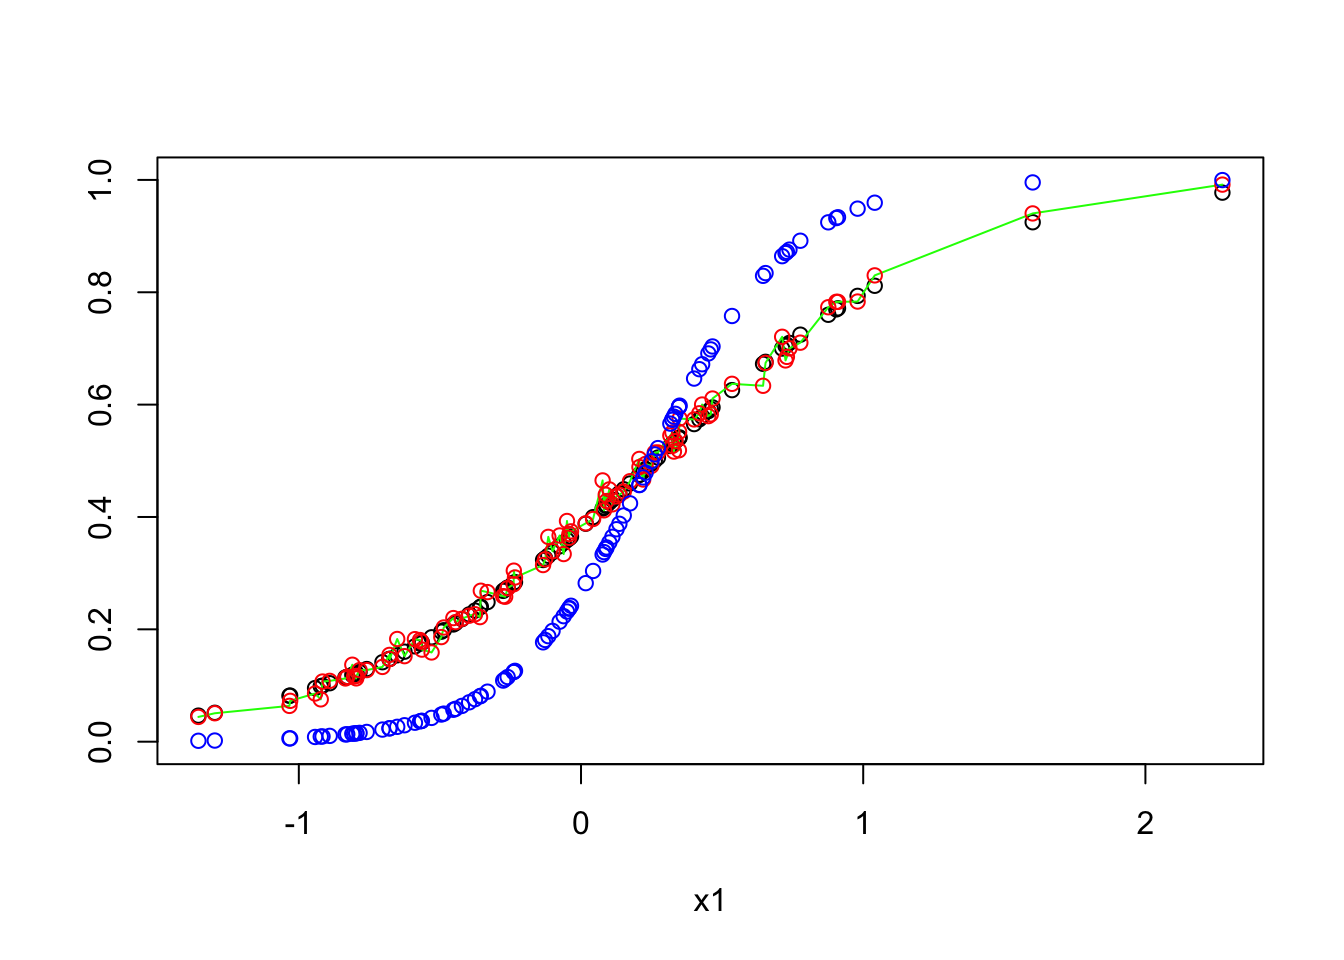
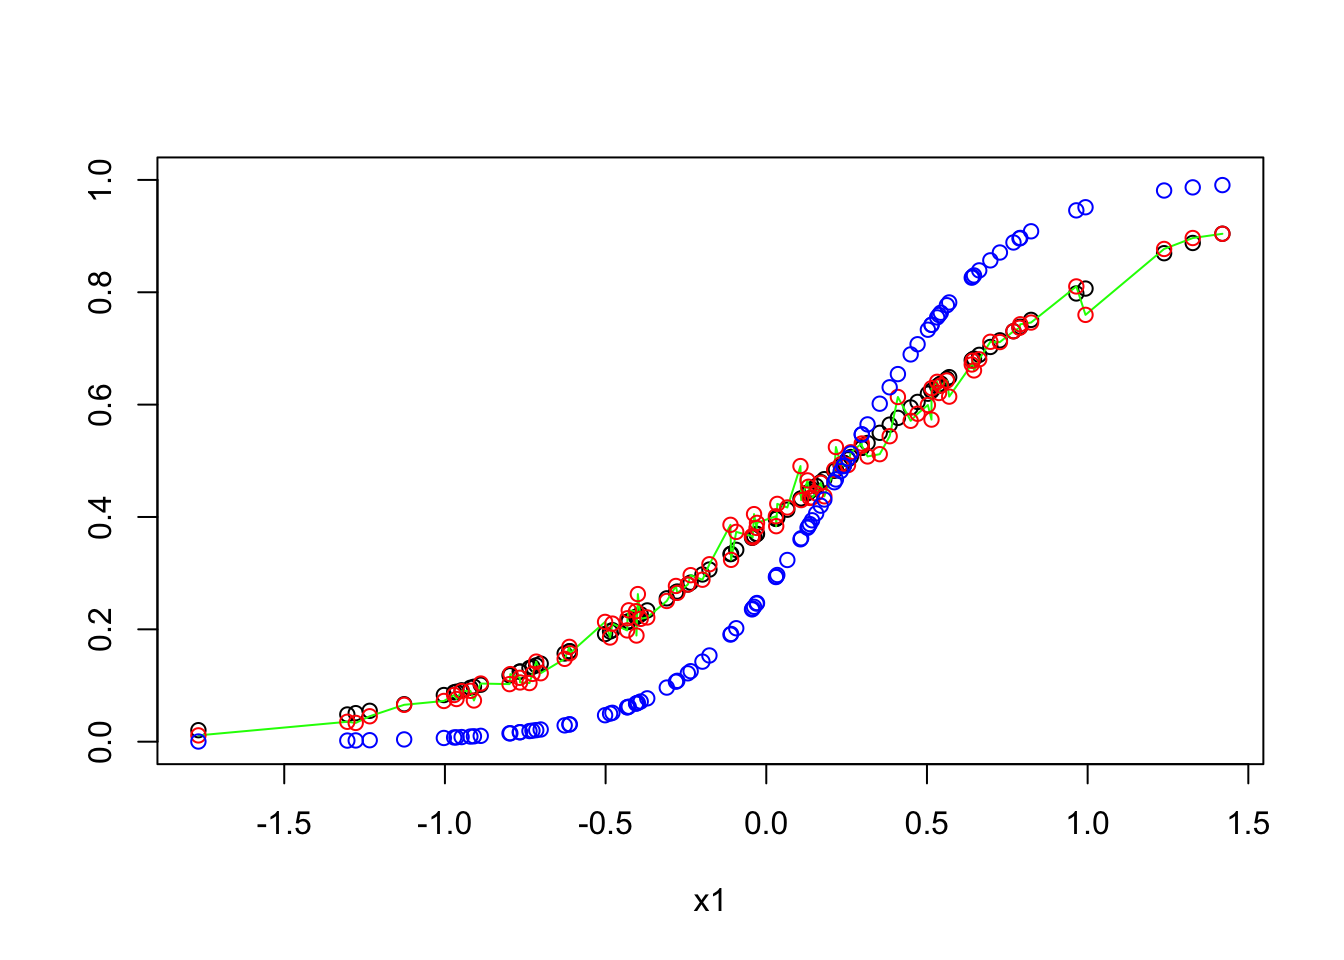
fix Jensen and start calculus

diff --git a/LinearAlgebra.html b/LinearAlgebra.html
@@ -701,7 +701,7 @@ y \\
 </ins>
 </div>
 <p>Compared with <span class="math inline">\(S = Q\Lambda Q^T\)</span>.<br />
-Now <span class="math inline">\(A = U\Sigma V^T\)</span>. <span class="math inline">\(Ax = U\Sigma V^Tx\)</span> can be viewed as as rotation, stretch, rotation of vector <span class="math inline">\(x\)</span>.</p>
+Now <span class="math inline">\(A = U\Sigma V^T\)</span>. <span class="math inline">\(Ax = U\Sigma V^Tx\)</span> can be viewed as <strong>rotation, stretch, and then rotation</strong> of vector <span class="math inline">\(x\)</span>.</p>
 <p>Now the matrix <span class="math inline">\(A\)</span> is rectengular</p>
 <p><span class="math inline">\(A^TA\)</span> is n by n semidefinite positive <span class="math inline">\(\rightarrow A^TA = V\Lambda V^T\)</span> <span class="math inline">\(AA^T\)</span> is m by m semidefinite positive <span class="math inline">\(\rightarrow AA^T = U\Lambda U^T\)</span></p>
 <ul>
@@ -721,7 +721,7 @@ A^TA &amp;= V(\Sigma^T\Sigma)V^T
 <li><span class="math inline">\(U\)</span> is the eigenvectors of <span class="math inline">\(AA^T\)</span> and</li>
 <li><span class="math inline">\(V\)</span> is the eigenvectors of <span class="math inline">\(A^TA\)</span></li>
 </ul>
-<p>We know that <span class="math inline">\(v\)</span>s are orthogonal eigenvectors of <span class="math inline">\(A^TA\)</span>. Want to show <span class="math inline">\(u_1^Tu_2 =0\)</span></p>
+<p>We know that vestors <span class="math inline">\(V\)</span> are orthogonal eigenvectors of <span class="math inline">\(A^TA\)</span>. We want to show <span class="math inline">\(u_1^Tu_2 =0\)</span></p>
 <p><span class="math display">\[
 \begin{aligned}
 u_1^Tu_2 &amp;= (\frac{Av_1}{\sigma_1})^T(\frac{Av_2}{\sigma_2}) \\
@@ -738,20 +738,53 @@ u_1^Tu_2 &amp;= (\frac{Av_1}{\sigma_1})^T(\frac{Av_2}{\sigma_2}) \\
 </div>
 <p><span class="math display">\[A = U\Sigma V^T = \sigma_1u_1v_1^T + \sigma_2u_2v_2^T + ... \sigma_ru_rv_r^T\]</span> <span class="math display">\[A_k = U_k\Sigma_k V_k^T = \sigma_1u_1v_1^T + \sigma_2u_2v_2^T + ... \sigma_ku_kv_k^T\]</span></p>
 <p><strong>Eckart-Young Statement</strong>: If B has rank k then <span class="math inline">\(||A-B|| \geq||A-A_k||\)</span></p>
-<p>About norms for vectors:</p>
+<p>About <strong>norms</strong> for vectors:</p>
 <ul>
 <li><span class="math inline">\(L^2\)</span> norm: <span class="math inline">\(||v||_2 = \sqrt{|v_1|^2+ ...+|v_n|^2}\)</span></li>
 <li><span class="math inline">\(L^1\)</span> norm: <span class="math inline">\(||v||_1 = |v_1| +...+ |v_n|\)</span></li>
-<li><span class="math inline">\(L^{\infty}\)</span> norm: <span class="math inline">\(||v||_{\infty} = \text{max|v_i|}\)</span></li>
+<li><span class="math inline">\(L^{\infty}\)</span> norm: <span class="math inline">\(||v||_{\infty} = \text{max}|v_i|\)</span></li>
 <li><span class="math inline">\(||cv|| = |c| \ ||v||\)</span></li>
 <li><span class="math inline">\(||v+w|| \leq ||v||+||w||\)</span></li>
 </ul>
-<p>Below norms for matrix <span class="math inline">\(A\)</span> satisfy Eckart-Young statement:</p>
+<p>Below <strong>norms</strong> for matrix <span class="math inline">\(A\)</span> satisfy Eckart-Young statement:</p>
 <ul>
 <li><span class="math inline">\(||A||_2 = \sigma_1\)</span></li>
 <li>Frobenious norm: <span class="math inline">\(||A||_F = \sqrt{|a_{11}|^2+ ...|a_{1n}|^2+|a_{b1}|^2+...+|a_{mn}|^2}\)</span></li>
 <li>Nuclear norm: <span class="math inline">\(||A||_N = \sigma_1+\sigma_2+...+\sigma_r\)</span></li>
 </ul>
+<div style="background-color:white;color:blue;matrixOperation:20px;">
+<ins>
+<h3 id="norms-of-vectors-and-matrices">Norms of Vectors and Matrices</h3>
+</ins>
+</div>
+<div style="background-color:white;color:blue;matrixOperation:20px;">
+<ins>
+<h3 id="ways-to-solve-least-squares">4 Ways to Solve Least Squares</h3>
+</ins>
+</div>
+<p><span class="math inline">\(Ax=b\)</span></p>
+<p>where <span class="math inline">\(A\)</span> is <span class="math inline">\(m\)</span> by <span class="math inline">\(n\)</span> and rank <span class="math inline">\(r\)</span></p>
+<ol style="list-style-type: decimal">
+<li>Solve <span class="math inline">\(A^TAx = A^Tb\)</span> to minimize <span class="math inline">\(||Ax-b||^2\)</span> if <span class="math inline">\(A\)</span> has independent columns then <span class="math inline">\(A^TA\)</span> is invertible</li>
+<li><p>Gram-Schmidt <span class="math inline">\(A = QR\)</span> leads to <span class="math inline">\(x = R^{-1}Q^Tb\)</span></p></li>
+<li><p>The pseudoinverse directly multiplies <span class="math inline">\(b\)</span> to give <span class="math inline">\(x = A^{+}b\)</span></p></li>
+</ol>
+<p><span class="math inline">\(A = U\Sigma V^T\)</span>, if A is invertible, then <span class="math inline">\(A^{-1} = V\Sigma^{-1}U^T\)</span>. If A is not invertible: <span class="math inline">\(A^{+} = V\Sigma^{+}U^T\)</span></p>
+<ol start="4" style="list-style-type: decimal">
+<li>THe best <span class="math inline">\(x\)</span> is the limit of <span class="math inline">\((A^TA + \delta I)^{-1}A^Tb\)</span> as <span class="math inline">\(\delta \to 0\)</span></li>
+</ol>
+<p><strong>Claim: <span class="math inline">\(A^{+}b = (A^TA)^{-1}A^Tb\)</span> </strong> when <span class="math inline">\(N(A) = 0\)</span>, <span class="math inline">\(r=n\)</span></p>
+<p><span class="math inline">\(A^{+} = V\Sigma^{+}U^T = (A^TA)^{-1}A^T\)</span></p>
+<p>Notice that</p>
+<ul>
+<li><span class="math inline">\((A^TA)^{-1}A^TA=I\)</span></li>
+<li>while <span class="math inline">\(A(A^TA)^{-1}A^T \neq I\)</span> Note that for <span class="math inline">\((A^TA)^{-1}A^T\)</span> to be the inverse of <span class="math inline">\(A\)</span>, we need <span class="math inline">\((A^TA)^{-1}A^TA=I\)</span> and <span class="math inline">\(A(A^TA)^{-1}A^T = I\)</span></li>
+</ul>
+<div style="background-color:white;color:blue;matrixOperation:20px;">
+<ins>
+<h3 id="difficulties-with-ax-b">Difficulties with Ax = b</h3>
+</ins>
+</div>
 
 
 

diff --git a/BasicCalculus.html b/BasicCalculus.html
@@ -11,7 +11,7 @@
 
 
 
-<title>CECL for Line of Credit</title>
+<title>Basic Calculus</title>
 
 <script src="site_libs/jquery-1.11.3/jquery.min.js"></script>
 <meta name="viewport" content="width=device-width, initial-scale=1" />
@@ -383,42 +383,20 @@ div.tocify {
 
 
 
-<h1 class="title toc-ignore">CECL for Line of Credit</h1>
+<h1 class="title toc-ignore">Basic Calculus</h1>
 
 </div>
 
 
 <div style="background-color:white;color:blue;matrixOperation:20px;">
 <ins>
-<h3 id="cecl-requirements">CECL Requirements</h3>
+<h3 id="u-substitute">u substitute</h3>
 </ins>
 </div>
-<p>Current Expected Credit Loss, or <a href="https://www.fasb.org/jsp/FASB/Document_C/DocumentPage?cid=1176168232528&amp;acceptedDisclaimer=true">CECL</a>, is the latest guidelines, publised by Financial Accounting Standards Board (FASB), regarding the Allowance for Loan and Lease Losses (ALLL). Under CECL, the lending company is required to reserve the expected “lifetime” credit loss for the loan as early as when the loan is originated as opposed to the “incurred” loss under the old standard. The main ideas of the CECL are</p>
 <ul>
-<li>Expected</li>
-<li>Lifetime</li>
+<li>Theory<br />
+<span class="math display">\[ \int f(g(x))g^&#39;(x)dx = \int fudu \]</span> where <span class="math inline">\(u = g(x)\)</span></li>
 </ul>
-<p>The first point requires the <strong>forward-looking</strong> forecast for the <strong>foreseable future</strong>. Beyond the foreseable future (2 years as common industry practice), it’s plausible to assume the <strong>through-the-cycle (TTC)</strong> probability of default (PD). A popular approach is to incorporate the economic indicators into the loss forecasting model and make the loss forecast based on the economic indicators projected by internal economists or senior management. Another approach would be to model the through-the-cycle (TTC) loss rate and then add model overlay on top of it based on the forward economic forecast. The 2nd major difference is the requirement to reserve against the lifetime credit loss which means that the lending company not only has to have reserve to cover the loss occur in the following year, it has to have enough reserve to cover the total loss that are expected to occur in the future.</p>
-<p>For example, a loan $100K, 10 year loan, annual principal payment as 10K and has annual probability of default (PB) = 3%,</p>
-<ul>
-<li>The reserve under incurred loss for the following 12 months would be <span class="math inline">\(100K \cdot 3\% = 3K\)</span>,</li>
-<li>Whereas under CECL, the reserve would be <span class="math inline">\(100K \cdot 3\% + 90K \cdot 3\% + ...+ 10K \cdot 3\% = 16.5K\)</span>.</li>
-</ul>
-<p>Although it’s unlikely for a loan to have uniform distribution of PD accross the life of the loan as the PD is usually quite low at the end of the loan, the example illustrates that the CECL reserve rate is significantly different from that of the incurred loss for a typical term loan.</p>
-<p>Another point of the CECL implementation is the allowance should consider not only the unpaid principal balance but the net <strong>amortized cost</strong>:</p>
-<p><span class="math display">\[\text{Amortized cost} = \text{Principal} + \text{Premium/Discount}+\text{Deferred loan fees} + \text{Accrued interest &amp; other adjustments}\]</span> There are two ways that are common used in the industry. First is to directly model the credit loss based on the amortised cost. Another way, a simpler way, is to model the credit loss based on unpaid principal balance and make adjustment on top of that. For simplicity, the following content are based on unpaid principal balance only.</p>
-<div style="background-color:white;color:blue;matrixOperation:20px;">
-<ins>
-<h3 id="unconditionally-cancellable">Unconditionally Cancellable</h3>
-</ins>
-</div>
-<p>In this section, we specifically discuss the line of credit under the CECL regulation. As specified in <strong>326-20-30-11</strong> of <a href="https://www.fasb.org/jsp/FASB/Document_C/DocumentPage?cid=1176168232528&amp;acceptedDisclaimer=true">CECL</a>, the lender shall estimate the expected loss over the contractual period unless the obligation is <strong>“Unconditionally Cancellable”</strong>. The credit card normally falls into this category as the ‘term &amp; conditions’ often specificies the lender’s authority to unconditionally cancel the credit line provided that the borrower still obligated to pay the outstanding principal &amp; interest balance. The covid-19 in 2020 is a good example as numorous fintech online lenders put the undrawn credit line on hold amid the crisis. FASB gives an example of credit card portfolio that is unconditionally concallable in <strong>326-20-55-54</strong> to <strong>326-20-55-56</strong> of <a href="https://www.fasb.org/jsp/FASB/Document_C/DocumentPage?cid=1176168232528&amp;acceptedDisclaimer=true">CECL</a>.</p>
-<div style="background-color:white;color:blue;matrixOperation:20px;">
-<ins>
-<h3 id="paydown-curve">Paydown Curve</h3>
-</ins>
-</div>
-<p>The Paydown Curve of Reporting Date’s UPB - PD &amp; EAD View.</p>
 
 
 

diff --git a/JensenIneq.html b/JensenIneq.html
@@ -542,13 +542,13 @@ points(x = groups$x1, y = groups$`avg(p_E)`, col = &#39;blue&#39;)</code></pre>
 <p><img src="JensenIneq_files/figure-html/unnamed-chunk-3-1.png" width="672" /></p>
 <pre class="r"><code>print(glm_sim$coefficients)</code></pre>
 <pre><code>## (Intercept)          x1 
-##  -0.4867213   1.8705659</code></pre>
+##  -0.4773908   1.9180603</code></pre>
 <pre class="r"><code>plot(x = groups$x1, y = groups$`avg(model_p_f)`, ylim = c(0,1), xlab = &#39;x1&#39;, ylab = &#39;&#39;)
 lines(x = groups$x1, y = groups$`avg(p_f)`, col = &#39;brown&#39;)</code></pre>
 <p><img src="JensenIneq_files/figure-html/unnamed-chunk-4-1.png" width="672" /></p>
 <pre class="r"><code>print(glm_sim_f$coefficients)</code></pre>
 <pre><code>## (Intercept)          x1 
-##   -1.009647    4.076452</code></pre>
+##  -0.9691813   3.9640858</code></pre>
 
 
 
